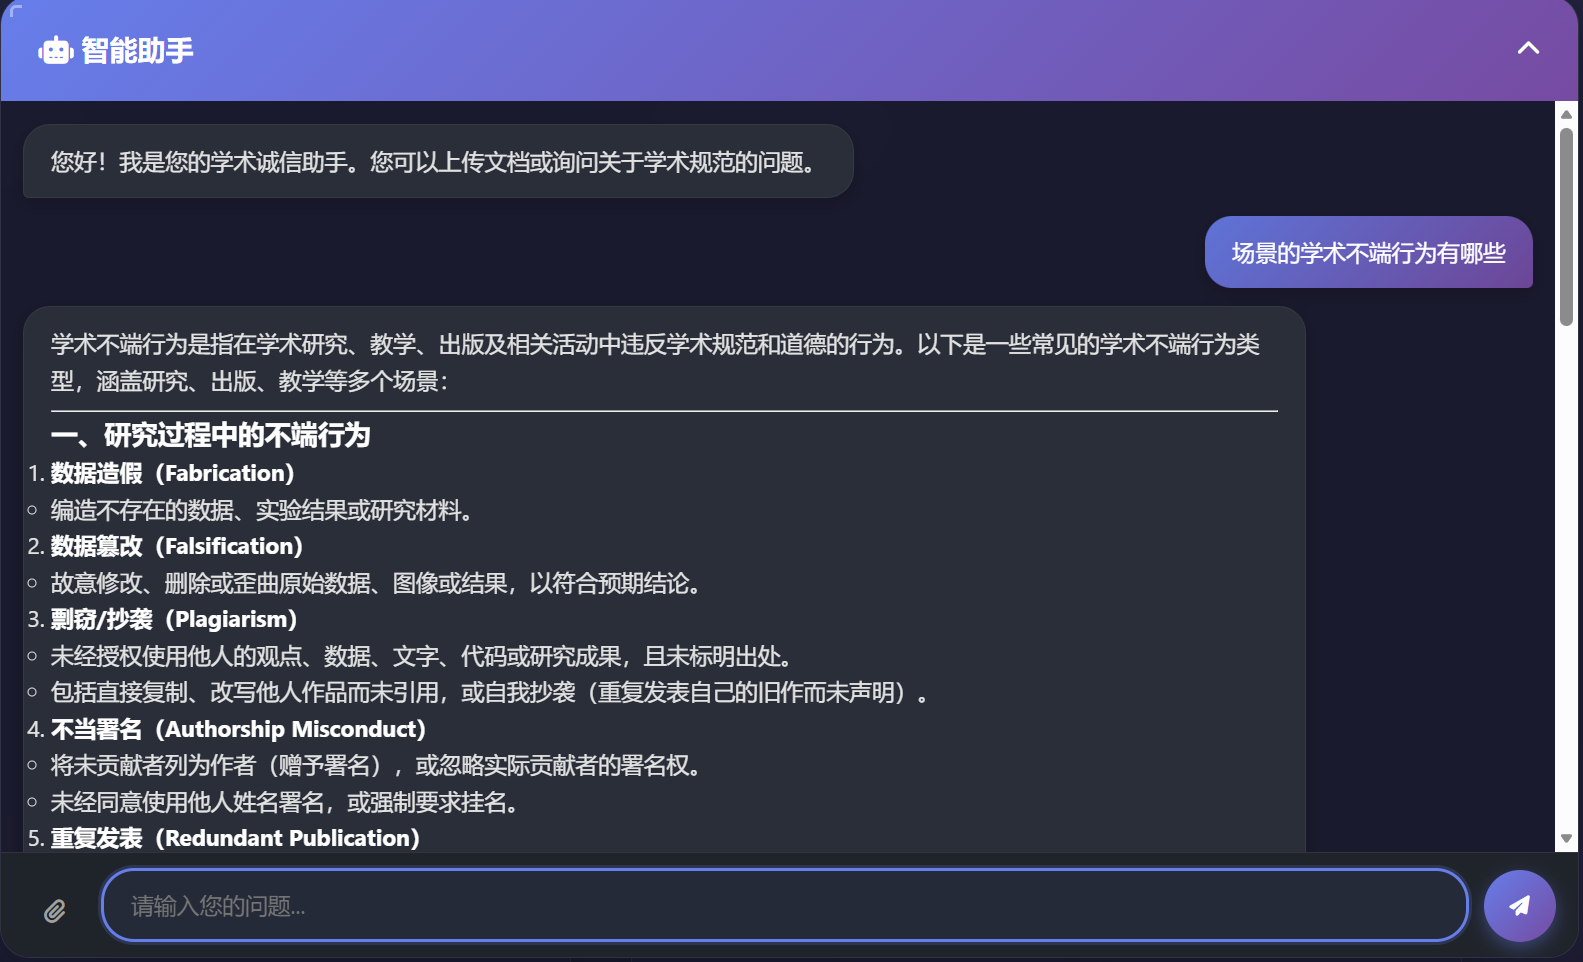
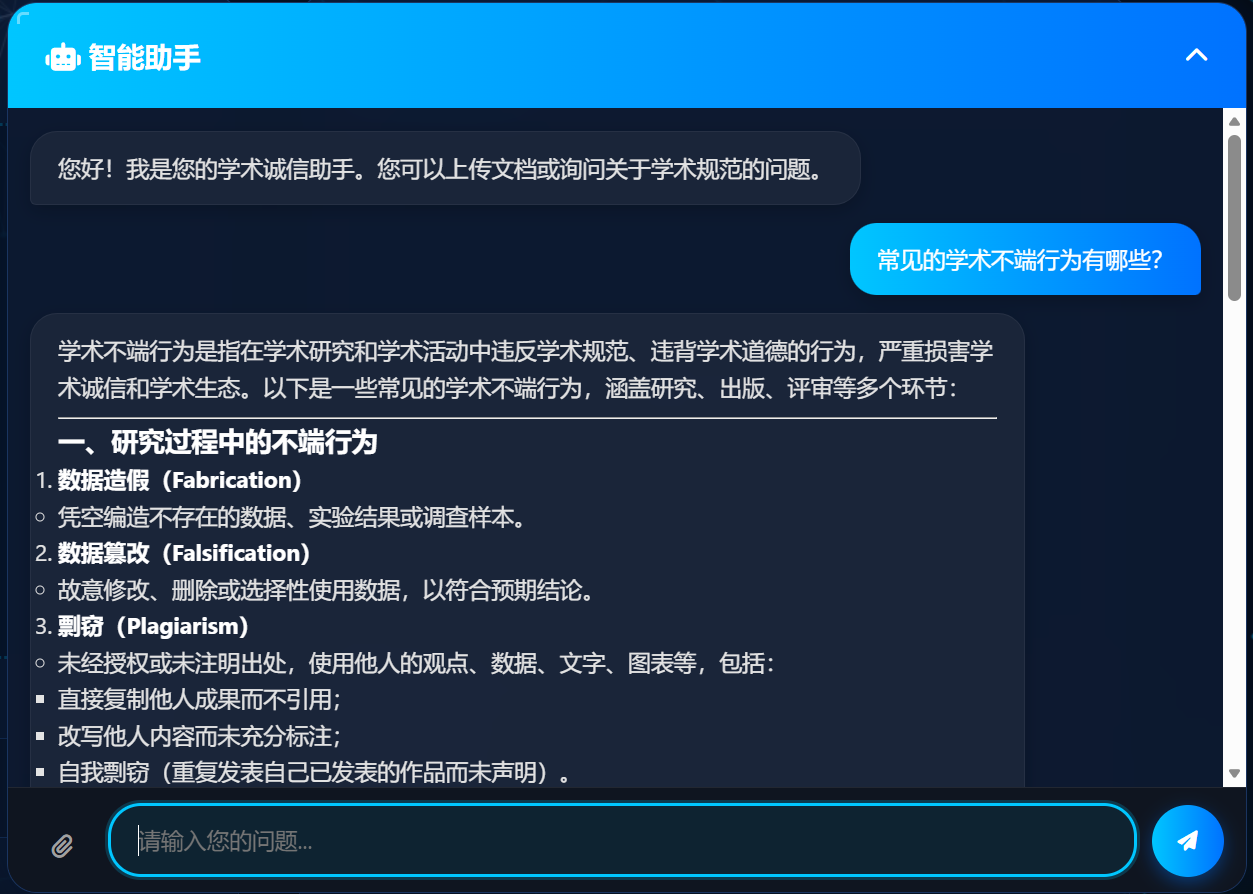
upload

diff --git a/templates/login.html b/templates/login.html
@@ -57,7 +57,7 @@
             color: #fff;
             font-size: 2.2rem;
             font-weight: 700;
-            background: linear-gradient(135deg, #667eea 0%, #764ba2 100%);
+            background: linear-gradient(135deg, #00c6ff 0%, #0072ff 100%);
             -webkit-background-clip: text;
             -webkit-text-fill-color: transparent;
             background-clip: text;
@@ -104,7 +104,7 @@
         
         .form-group input:focus {
             outline: none;
-            border-color: #667eea;
+            border-color: #00c6ff;
             background: rgba(102, 126, 234, 0.08);
             box-shadow: 0 0 0 4px rgba(102, 126, 234, 0.15), 0 8px 24px rgba(102, 126, 234, 0.2);
             transform: translateY(-2px);
@@ -116,7 +116,7 @@
         
         .auth-btn {
             padding: 16px;
-            background: linear-gradient(135deg, #667eea 0%, #764ba2 100%);
+            background: linear-gradient(135deg, #00c6ff 0%, #0072ff 100%);
             color: #fff;
             border: none;
             border-radius: 12px;
@@ -163,7 +163,7 @@
         
         .auth-links a {
             background: rgba(102, 126, 234, 0.1);
-            color: #667eea;
+            color: #00c6ff;
             border: 2px solid rgba(102, 126, 234, 0.3);
             border-radius: 10px;
             padding: 10px 24px;
@@ -178,7 +178,7 @@
         }
         
         .auth-links a:hover {
-            background: linear-gradient(135deg, #667eea 0%, #764ba2 100%);
+            background: linear-gradient(135deg, #00c6ff 0%, #0072ff 100%);
             color: #fff;
             border-color: transparent;
             transform: translateY(-2px);
@@ -238,7 +238,7 @@
             transform: translateX(-3px);
         }
 
-        .container > header {
+        /* .container > header {
             position: static !important;
             left: auto !important;
             right: auto !important;
@@ -249,7 +249,7 @@
             border-radius: var(--border-radius);
             box-shadow: var(--shadow);
             text-align: center;
-        }
+        } */
 
         
     </style>

diff --git a/templates/register.html b/templates/register.html
@@ -57,7 +57,7 @@
             color: #fff;
             font-size: 2.2rem;
             font-weight: 700;
-            background: linear-gradient(135deg, #667eea 0%, #764ba2 100%);
+            background: linear-gradient(135deg, #00c6ff 0%, #0072ff 100%);
             -webkit-background-clip: text;
             -webkit-text-fill-color: transparent;
             background-clip: text;
@@ -104,7 +104,7 @@
         
         .form-group input:focus {
             outline: none;
-            border-color: #667eea;
+            border-color: #00c6ff;
             background: rgba(102, 126, 234, 0.08);
             box-shadow: 0 0 0 4px rgba(102, 126, 234, 0.15), 0 8px 24px rgba(102, 126, 234, 0.2);
             transform: translateY(-2px);
@@ -116,7 +116,7 @@
         
         .auth-btn {
             padding: 16px;
-            background: linear-gradient(135deg, #667eea 0%, #764ba2 100%);
+            background: linear-gradient(135deg, #00c6ff 0%, #0072ff 100%);
             color: #fff;
             border: none;
             border-radius: 12px;
@@ -163,7 +163,7 @@
         
         .auth-links a {
             background: rgba(102, 126, 234, 0.1);
-            color: #667eea;
+            color: #00c6ff;
             border: 2px solid rgba(102, 126, 234, 0.3);
             border-radius: 10px;
             padding: 10px 24px;
@@ -178,7 +178,7 @@
         }
         
         .auth-links a:hover {
-            background: linear-gradient(135deg, #667eea 0%, #764ba2 100%);
+            background: linear-gradient(135deg, #00c6ff 0%, #0072ff 100%);
             color: #fff;
             border-color: transparent;
             transform: translateY(-2px);

diff --git a/static/css/style.css b/static/css/style.css
@@ -10,12 +10,17 @@
     --accent-gradient: linear-gradient(135deg, #4da3ff 0%, #667eea 100%);
     --danger-gradient: linear-gradient(135deg, #f093fb 0%, #f5576c 100%);
     --success-gradient: linear-gradient(135deg, #4facfe 0%, #00f2fe 100%);
+    --primary-gradient: linear-gradient(135deg, #00c6ff 0%, #0072ff 100%); /* 青蓝 -> 深蓝 */
     
     /* 🎯 主色调 */
-    --primary-color: #667eea;
+    /* --primary-color: #667eea;
     --primary-light: #8899f0;
     --primary-dark: #5568d3;
-    --primary-color-rgb: 102, 126, 234;
+    --primary-color-rgb: 102, 126, 234; */
+    --primary-color: #0072ff;       
+    --primary-light: #4dabff;       
+    --primary-dark: #0052cc;        
+    --primary-color-rgb: 0, 114, 255; 
     
     --accent-color: #4da3ff;
     --accent-light: #6bb5ff;

diff --git a/templates/detection.html b/templates/detection.html
@@ -743,7 +743,7 @@ document.addEventListener('DOMContentLoaded', () => {
                 throw new Error(errorData.error || `检测失败: ${response.status}`);
             }
 
-            await new Promise(resolve => setTimeout(resolve, 5000));
+            await new Promise(resolve => setTimeout(resolve, 10000));
 
             const result = await response.json();
             displayDetectionResult(result);

diff --git a/config.py b/config.py
@@ -1,4 +1,4 @@
 UPLOAD_FOLDER = 'uploads'
-MAX_CONTENT_LENGTH = 16 * 1024 * 1024  # 限制上传文件大小为16MB
+MAX_CONTENT_LENGTH = 1000 * 1024 * 1024  # 限制上传文件大小为16MB
 PORT = 3000
 PASSWORD_FILE = 'password/pswd.csv'
